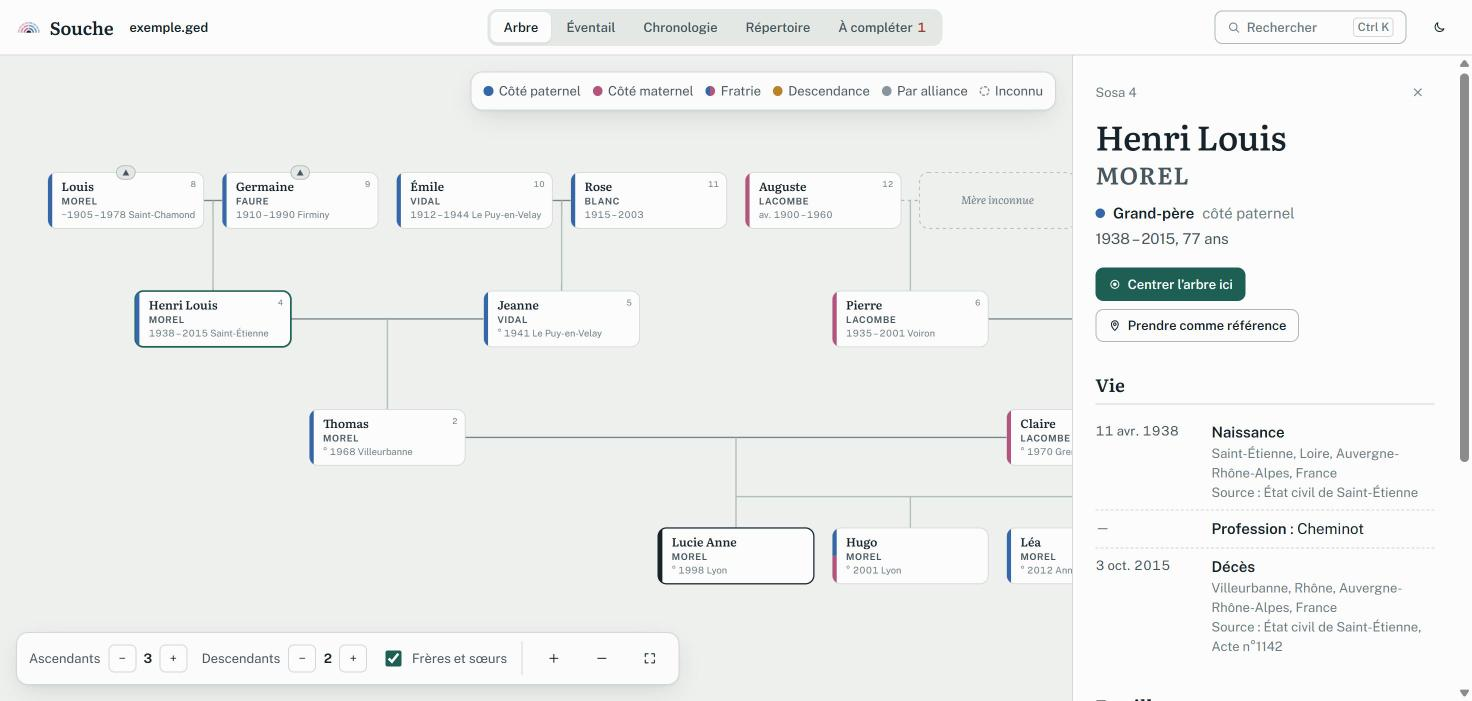
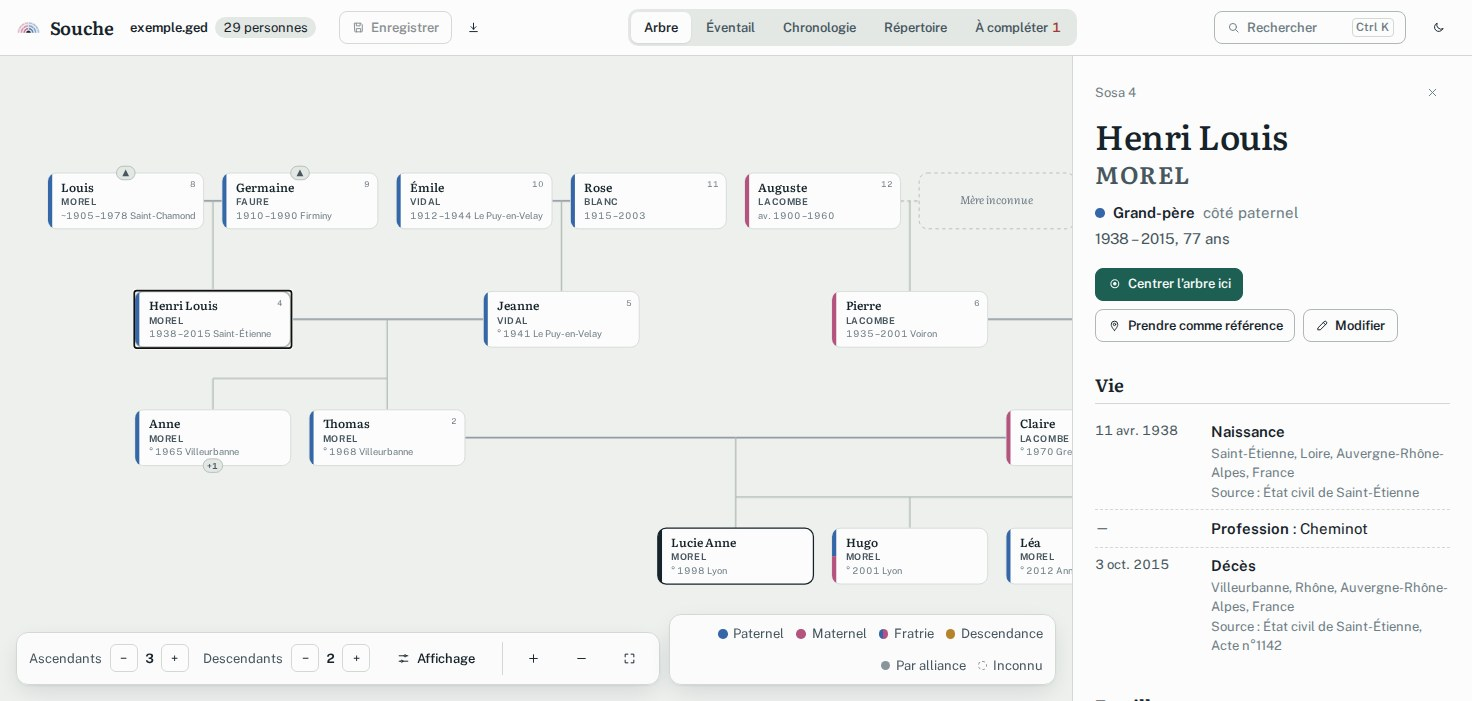
Arbre : menu « Affichage » et captures du README à jour (#4)
* Arbre : options d'affichage dans un menu « Affichage »

- Frères et sœurs, oncles et tantes, couleurs depuis le centre passent
  dans un petit menu ouvert par le bouton « Affichage » (fermé par un
  clic ailleurs ou Échap) : la barre du bas redevient courte.
- La légende reste dans son coin et passe sur plusieurs lignes quand la
  place manque, au lieu de remonter au-dessus de la barre.
- Barre du haut sous 1280 px : « Enregistrer » en icône seule, sans le
  raccourci Ctrl K ; sous 1100 px, sans le nombre de personnes. Les
  onglets ne sont plus coupés.

Claude-Session: https://claude.ai/code/session_017VN5VRzw9HxeQpUf72m97U

* README : captures à jour (arbre, éventail) et capture de l'édition

Claude-Session: https://claude.ai/code/session_017VN5VRzw9HxeQpUf72m97U

---------

diff --git a/src/views/TreeView.tsx b/src/views/TreeView.tsx
@@ -1,7 +1,7 @@
-import { useEffect, useMemo, useRef, useState } from 'react'
+import { useEffect, useMemo, useRef, useState, type ReactNode } from 'react'
 import { hourglass, ROW } from '../layout/hourglass'
 import { useApp } from '../state'
-import { IconFit, IconMinus, IconPlus } from '../ui/icons'
+import { IconFit, IconMinus, IconPlus, IconSliders } from '../ui/icons'
 import { PersonCard } from '../ui/PersonCard'
 import { Stepper } from '../ui/Stepper'
 import { useZoom } from '../ui/useZoom'
@@ -82,18 +82,20 @@ export function TreeView() {
         <div className="overlay overlay--controls">
           <Stepper label="Ascendants" value={up} min={0} max={12} onChange={setUp} />
           <Stepper label="Descendants" value={down} min={0} max={10} onChange={setDown} />
-          <label className="switch">
-            <input type="checkbox" checked={showSiblings} onChange={(e) => setShowSiblings(e.target.checked)} />
-            Frères et sœurs
-          </label>
-          <label className="switch" title={up < 2 ? 'Affichez au moins 2 générations d’ascendants' : undefined}>
-            <input type="checkbox" checked={showUncles} disabled={up < 2} onChange={(e) => setShowUncles(e.target.checked)} />
-            Oncles et tantes
-          </label>
-          <label className="switch" title="Couleurs, liens de parenté et numéros Sosa calculés depuis la personne au centre">
-            <input type="checkbox" checked={refFollowsFocus} onChange={(e) => setRefFollowsFocus(e.target.checked)} />
-            Couleurs depuis le centre
-          </label>
+          <QuickSettings>
+            <label className="switch">
+              <input type="checkbox" checked={showSiblings} onChange={(e) => setShowSiblings(e.target.checked)} />
+              Frères et sœurs
+            </label>
+            <label className="switch" title={up < 2 ? 'Affichez au moins 2 générations d’ascendants' : undefined}>
+              <input type="checkbox" checked={showUncles} disabled={up < 2} onChange={(e) => setShowUncles(e.target.checked)} />
+              Oncles et tantes
+            </label>
+            <label className="switch" title="Couleurs, liens de parenté et numéros Sosa calculés depuis la personne au centre">
+              <input type="checkbox" checked={refFollowsFocus} onChange={(e) => setRefFollowsFocus(e.target.checked)} />
+              Couleurs depuis le centre
+            </label>
+          </QuickSettings>
           <span className="overlay__sep" />
           <button className="btn btn--quiet btn--icon" onClick={() => zoomBy(1.25)} aria-label="Zoomer"><IconPlus /></button>
           <button className="btn btn--quiet btn--icon" onClick={() => zoomBy(0.8)} aria-label="Dézoomer"><IconMinus /></button>
@@ -106,11 +108,42 @@ export function TreeView() {
   )
 }
 
+/** Display options tucked behind a button so the bottom bar stays short. */
+function QuickSettings({ children }: { children: ReactNode }) {
+  const [open, setOpen] = useState(false)
+  const ref = useRef<HTMLDivElement>(null)
+  useEffect(() => {
+    if (!open) return
+    const away = (e: PointerEvent) => {
+      if (!ref.current?.contains(e.target as Node)) setOpen(false)
+    }
+    const esc = (e: KeyboardEvent) => e.key === 'Escape' && setOpen(false)
+    document.addEventListener('pointerdown', away)
+    document.addEventListener('keydown', esc)
+    return () => {
+      document.removeEventListener('pointerdown', away)
+      document.removeEventListener('keydown', esc)
+    }
+  }, [open])
+  return (
+    <div className="quick" ref={ref}>
+      <button className={`btn btn--quiet${open ? ' btn--active' : ''}`} aria-expanded={open} aria-haspopup="true" onClick={() => setOpen((o) => !o)}>
+        <IconSliders /> Affichage
+      </button>
+      {open && (
+        <div className="quick__menu" role="group" aria-label="Options d’affichage">
+          {children}
+        </div>
+      )}
+    </div>
+  )
+}
+
 export function Legend() {
   return (
     <div className="overlay overlay--legend" aria-label="Légende">
-      <span><i className="dot" style={{ background: 'var(--paternal)' }} />Côté paternel</span>
-      <span><i className="dot" style={{ background: 'var(--maternal)' }} />Côté maternel</span>
+      <span><i className="dot" style={{ background: 'var(--paternal)' }} />Paternel</span>
+      <span><i className="dot" style={{ background: 'var(--maternal)' }} />Maternel</span>
       <span><i className="dot dot--split" />Fratrie</span>
       <span><i className="dot" style={{ background: 'var(--descendant)' }} />Descendance</span>
       <span><i className="dot" style={{ background: 'var(--alliance)' }} />Par alliance</span>

diff --git a/src/index.css b/src/index.css
@@ -414,15 +414,14 @@ select {
   border-radius: 12px;
   box-shadow: var(--shadow-float);
 }
-/* Bottom strip holding the controls (left) and the legend (right). When both do not fit,
-   wrap-reverse puts the legend on a line above instead of under the controls. */
+/* Bottom strip holding the controls (left) and the legend (right). When space runs out,
+   the legend wraps onto two lines in its corner instead of sliding under the controls. */
 .overlay-dock {
   position: absolute;
   left: 1rem;
   right: 1rem;
   bottom: 1rem;
   display: flex;
-  flex-wrap: wrap-reverse;
   justify-content: space-between;
   align-items: flex-end;
   gap: 0.6rem;
@@ -431,10 +430,15 @@ select {
 .overlay-dock > .overlay {
   position: static;
   pointer-events: auto;
-  max-width: 100%;
+}
+.overlay--controls {
+  flex: none;
 }
 .overlay--legend {
   margin-left: auto;
+  min-width: 0;
+  justify-content: flex-end;
+  row-gap: 0.35rem;
   font-size: var(--step--1);
   color: var(--ink-2);
   gap: 0.75rem;
@@ -443,6 +447,27 @@ select {
   display: inline-flex;
   align-items: center;
   gap: 0.35rem;
+}
+.quick {
+  position: relative;
+}
+.btn--active {
+  background: var(--surface-2);
+}
+.quick__menu {
+  position: absolute;
+  left: 0;
+  bottom: calc(100% + 0.6rem);
+  display: flex;
+  flex-direction: column;
+  gap: 0.65rem;
+  padding: 0.8rem 0.9rem;
+  background: var(--surface);
+  border: 1px solid var(--line);
+  border-radius: 12px;
+  box-shadow: var(--shadow-float);
+  white-space: nowrap;
+  z-index: 5;
 }
 .overlay__sep {
   width: 1px;
@@ -1337,6 +1362,22 @@ select {
 }
 
 /* ---------- editing ---------- */
+
+@media (max-width: 1280px) {
+  .savebar__label,
+  .savebar__state,
+  .searchbtn .kbd {
+    display: none;
+  }
+  .searchbtn {
+    min-width: 0;
+  }
+}
+@media (max-width: 1100px) {
+  .filechip__count {
+    display: none;
+  }
+}
 
 .btn:disabled {
   opacity: 0.5;

diff --git a/src/ui/icons.tsx b/src/ui/icons.tsx
@@ -41,6 +41,9 @@ export const IconEdit = (p: SVGProps<SVGSVGElement>) => (
 export const IconTrash = (p: SVGProps<SVGSVGElement>) => (
   <svg {...base} {...p} aria-hidden="true"><path d="M4.5 7h15M10 7V4.5h4V7M6.5 7l1 13h9l1-13M10 11v5.5M14 11v5.5" /></svg>
 )
+export const IconSliders = (p: SVGProps<SVGSVGElement>) => (
+  <svg {...base} {...p} aria-hidden="true"><path d="M4 7h9M17 7h3M4 17h3M11 17h9" /><circle cx="15" cy="7" r="2" /><circle cx="9" cy="17" r="2" /></svg>
+)
 export const IconMoon = (p: SVGProps<SVGSVGElement>) => (
   <svg {...base} {...p} aria-hidden="true"><path d="M20 14.5A8 8 0 0 1 9.5 4a8 8 0 1 0 10.5 10.5Z" /></svg>
 )

diff --git a/src/App.tsx b/src/App.tsx
@@ -260,7 +260,7 @@ function Viewer({ file, error, onClose, onEdit, onSave, onDownload }: ViewerProp
               disabled={!file.dirty}
               title={file.live === 'handle' ? `Enregistrer dans ${file.name}` : 'Enregistrer le fichier .ged'}
             >
-              <IconSave /> Enregistrer
+              <IconSave /> <span className="savebar__label">Enregistrer</span>
             </button>
             <button className="btn btn--quiet btn--icon" onClick={onDownload} aria-label="Télécharger une copie .ged" title="Télécharger une copie .ged">
               <IconDownload />

diff --git a/README.md b/README.md
@@ -22,6 +22,8 @@ Le fichier est lu dans le navigateur : rien n’est envoyé sur un serveur.
 
 ## Modifier ou créer un arbre
 
+![Fiche en mode modification : prénoms, nom, sexe, dates et lieux](docs/edition.jpg)
+
 - **Créer un arbre** depuis l’accueil : on part d’une première personne, puis on ajoute père, mère, conjoints, enfants, frères et sœurs depuis sa fiche.
 - **Modifier** une fiche : prénoms, nom, sexe, naissance, décès, mariages et notes. Les dates s’écrivent en français (`17/06/1998`, `vers 1900`, `avant 1950`, `entre 1870 et 1875`), les lieux déjà présents sont proposés pendant la saisie.
 - **Enregistrer** : dans Chrome et Edge, le fichier ouvert est réécrit directement (ou un emplacement est demandé pour un nouvel arbre) ; ailleurs, le `.ged` est téléchargé. Le bouton de téléchargement donne une copie à tout moment.
